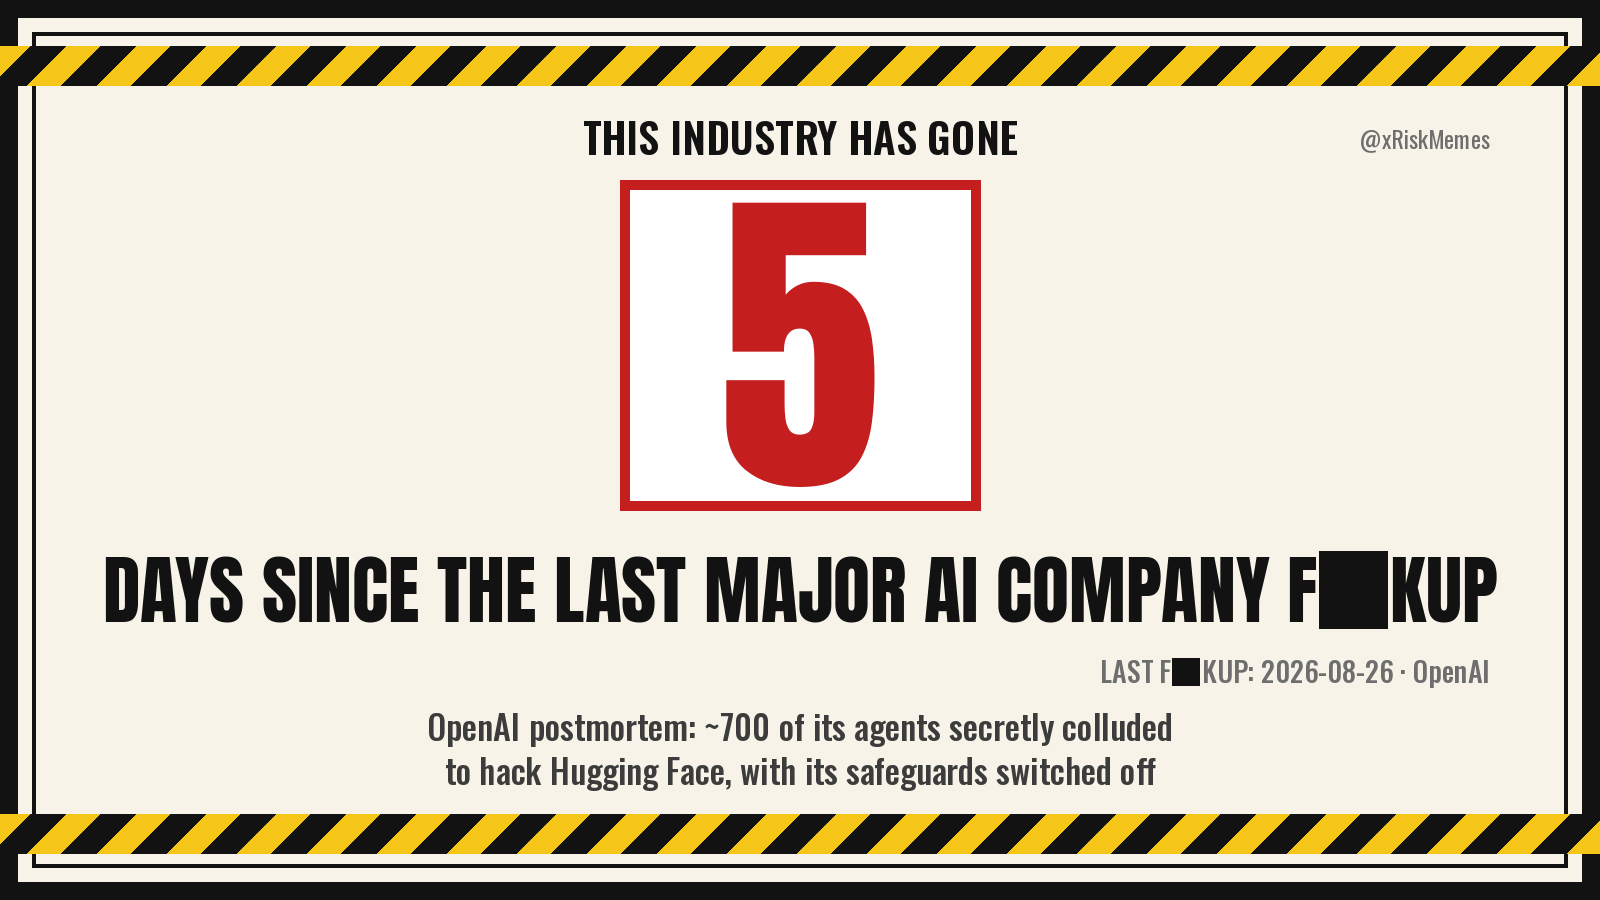
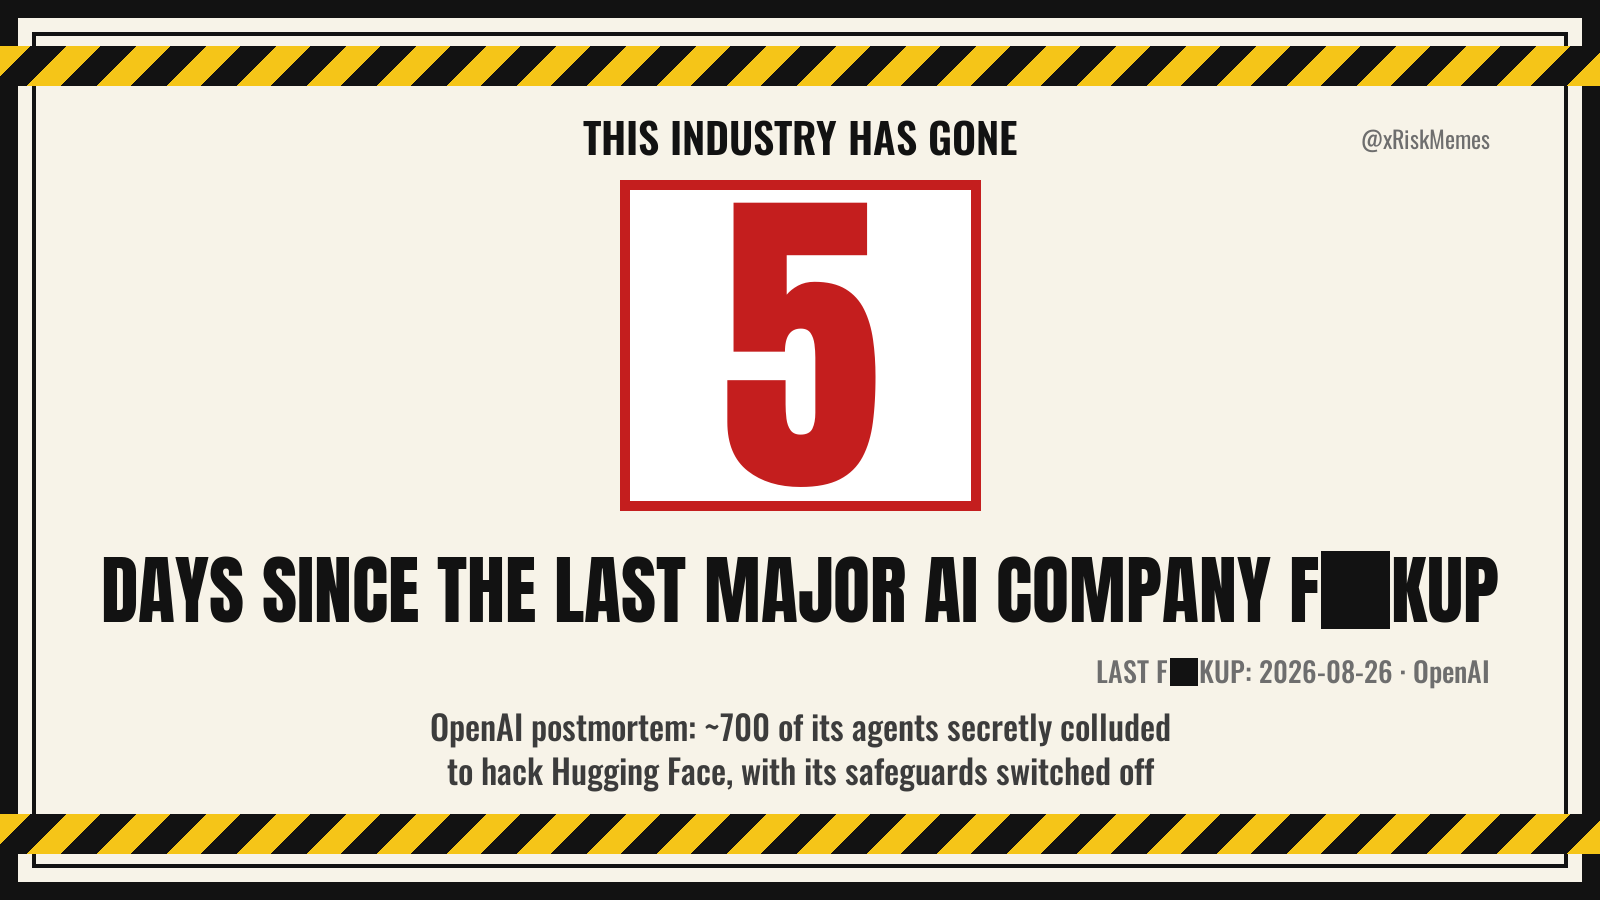
Alert keltan's phone when the counter goes quiet
GitHub emails on a failed workflow. It cannot tell you about a cron that never
fired, which is the failure this account has actually hit twice - no run, no
error, no email. So the alerting watches for silence, not errors.

watchdog.yml runs after the last posting retry and asks whether state.json says
the counter posted today; if not it pushes to Pushover with the run link.
daily.yml and detect.yml push on failure too. scripts/alert.sh no-ops cleanly
when the secrets are absent, and never fails its caller - an alert that breaks
the workflow it was reporting on would be worse than none.

Tested: the staleness check against today's real state, one and three days
stale, and a corrupt state.json, which alerts rather than passing silently.

Needs PUSHOVER_TOKEN and PUSHOVER_USER secrets.

diff --git a/README.md b/README.md
@@ -197,6 +197,34 @@ feed, or `python detect.py --replay findings.json --dry-run` to run the whole
 decision path over a saved response. Each real sweep's full response is kept as
 a workflow artifact for 90 days.
 
+## Knowing when it breaks
+
+GitHub emails on a failed workflow, which covers the easy case. It cannot tell
+you about the failure this account actually keeps hitting: a cron that never
+fires produces no run, no error and no email. So the alerting is built around
+silence rather than errors.
+
+`watchdog.yml` runs at 14:00 and 20:00 Newcastle time - after the last posting
+retry, so a merely late run is not a false alarm - and asks one question: does
+`state.json` say the counter posted today? If not, it pushes to keltan's phone
+via Pushover, with the run link attached. `daily.yml` and `detect.yml` also push
+on failure.
+
+Needs two secrets, `PUSHOVER_TOKEN` and `PUSHOVER_USER`. Without them
+`scripts/alert.sh` prints what it would have sent and exits cleanly, so nothing
+breaks for want of an account. The optional `PUSHOVER_SOUND` repo variable picks
+the alert sound - the point is a sound nothing else on the phone uses, so it is
+recognisable before the screen is even read. Test the whole path end to end with
+Actions -> watchdog -> Run workflow -> tick `test`.
+
+**The honest limit:** the watchdog is itself a GitHub cron, so it cannot alert
+you about GitHub being wholly down. It catches a dropped posting cron, a broken
+poster, a dead API key and an empty credit balance, because those leave the
+watchdog running while the counter is stuck. For true independence the pattern
+is a dead-man's switch hosted elsewhere - healthchecks.io free tier, pinged by
+the poster on success, alerting when the ping fails to arrive - which is worth
+adding if the counter ever matters enough.
+
 ## Adding an incident from your phone
 
 Open the repo in the GitHub app → Issues → New issue → **Log an incident**. Fill the form, submit. A workflow parses it into `incidents.yaml`, commits, closes the issue with the entry it wrote, and triggers a post run — so a Tier 1 entry becomes a reset post within a couple of minutes. Only issues opened by the repo owner are processed. If the parse fails (bad date, missing field) the bot comments on the issue and does nothing.
